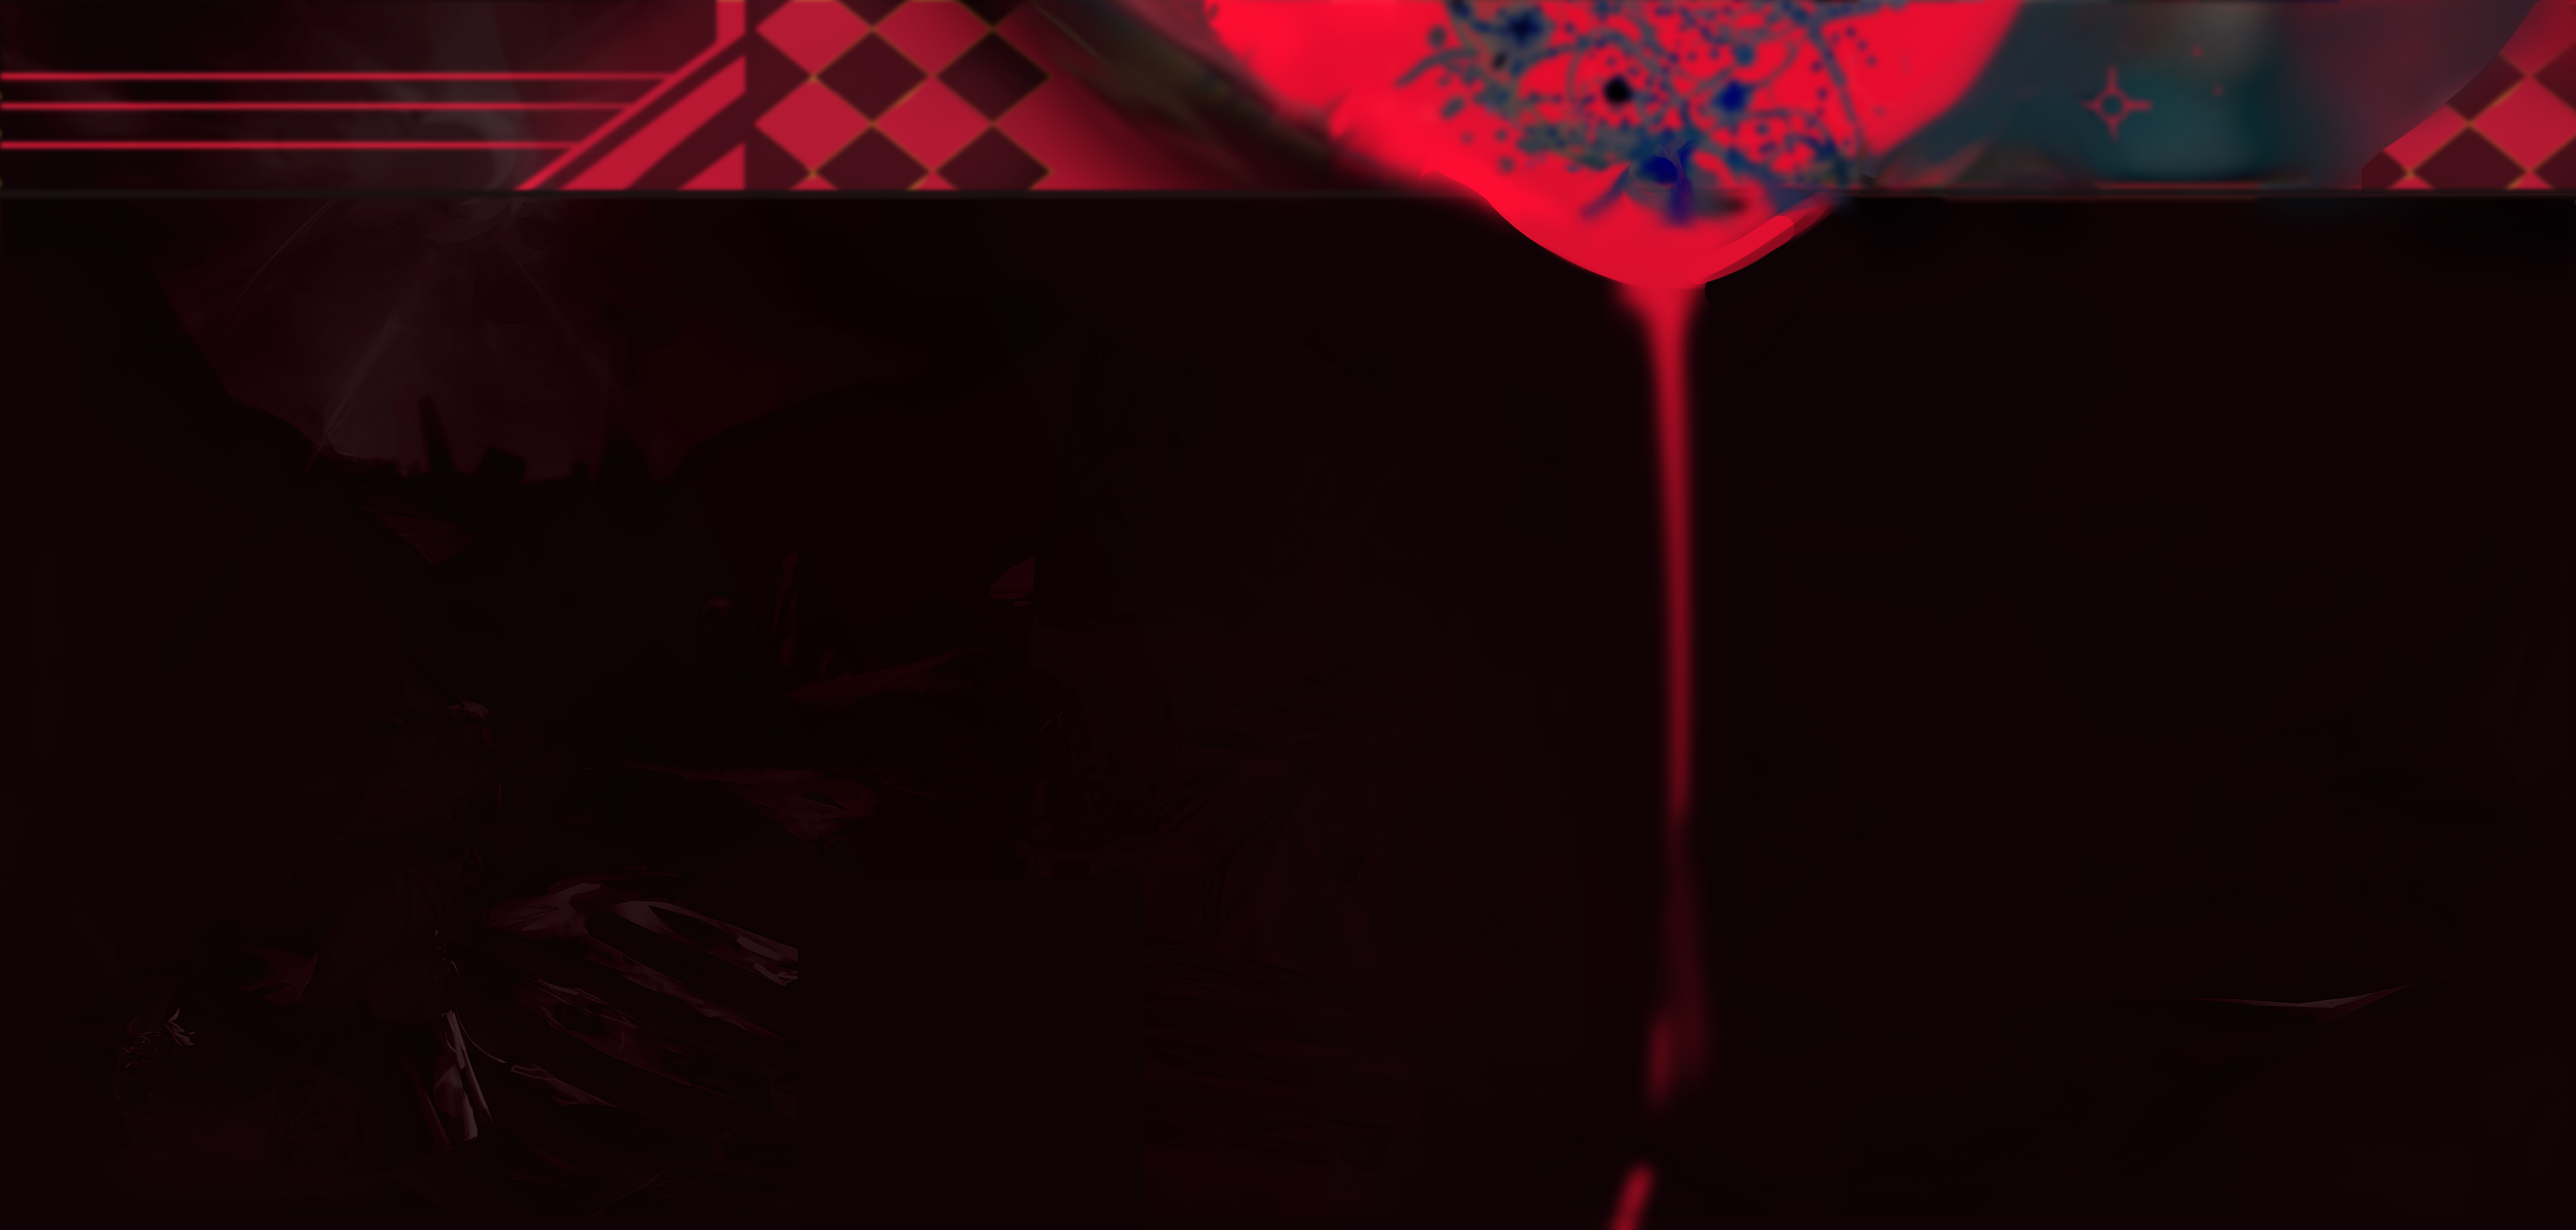
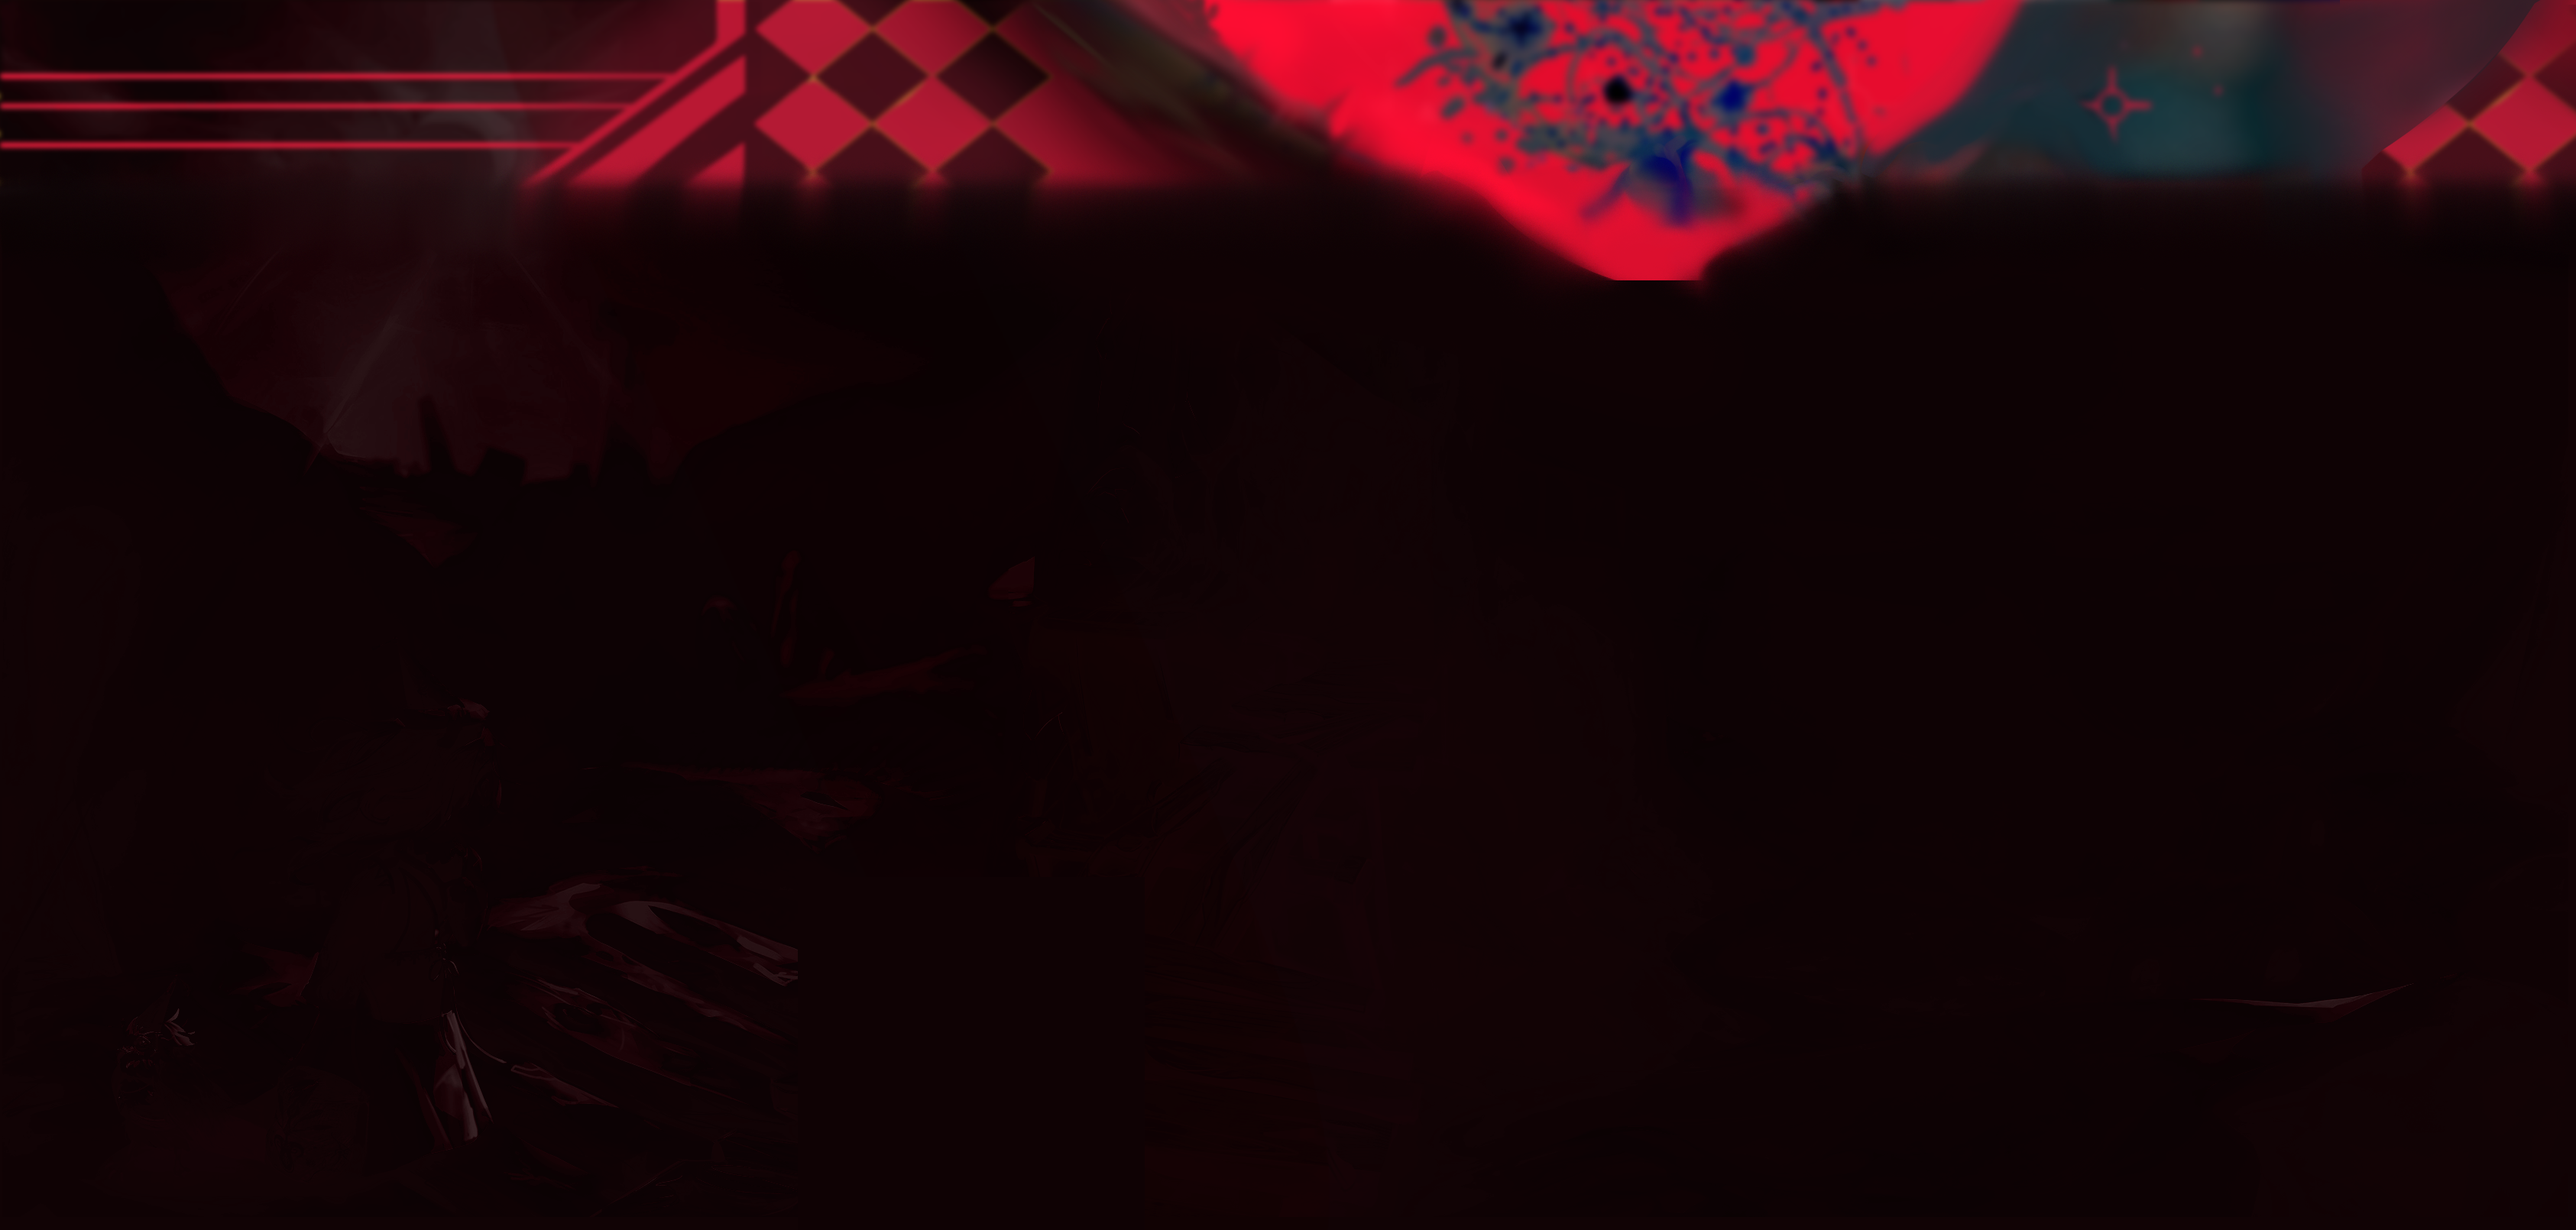
Update 2

diff --git a/index.html b/index.html
@@ -21,7 +21,7 @@
             }
 
             body {
-                background-image: url("/assets/images/bg-color9.png");
+                background-image: url("/assets/images/bg-color9.1.png");
                 background-size: cover;
                 background-position: center;
                 background-repeat: no-repeat;
@@ -83,7 +83,7 @@
             }
 
             .character:hover {
-                transform: translateY(-30px);
+                transform: translateY(-50px);
             }
 
             .character img {
@@ -94,14 +94,41 @@
                 border-radius: 10px;
             }
 
-            .character:hover img {
-                height: 60vh; /* altura quando hover */ }
-                clip-path: polygon(50% 0%, 100% 100%, 0% 100%); 
+            /* Cards Shapes */
+
+            #project-card:hover img {
+
+                height: 60vh;
+                clip-path: polygon(75% -100%, 100% 75%, -25% 100%); /* Triângulo apontando para baixo */
+                
+            }
+
+            #blog-card:hover img {
+                height: 60vh;
+                clip-path: ellipse(50% 100% at 50% 50%);
+
+            }
+
+            #music-card:hover img {
+                height: 60vh;
+                clip-path: polygon(25% 0%, 100% 0%, 75% 100%, 0% 100%);
+
+            }
+
+            #games-card:hover img {
+                height: 60vh;
+                clip-path: polygon(20% 0%, 0% 20%, 30% 50%, 0% 80%, 20% 100%, 50% 70%, 80% 100%, 100% 80%, 70% 50%, 100% 20%, 80% 0%, 50% 30%);
+
+            }
+
+            /* ---- MUDANÇA DA FONTE  */
+
+            /* ---   */
 
             .character-text {
                 margin-top: 1vh;
-                font-size: 1.2vw;
-                font-weight: 300;
+                font-size: 2.2vw;
+                font-weight: 450;
             }
 
             .footer {
@@ -178,7 +205,7 @@
                 ></a>
             </div>
 
-            <p class="welcome-text">W2</p>
+            <p class="welcome-text">Ola2</p>
 
             <div class="characters">
                 <div
@@ -255,9 +282,6 @@
             // CARDS 
             function changeImages(category) {
                 if (category === "projects") {
-
-
-
                     document.getElementById("project-card").querySelector("img").src = "/assets/images/projects_select.jpg";
                     document.getElementById("blog-card").querySelector("img").src = "/assets/images/blog_posterize_brown.jpg";
                     document.getElementById("music-card").querySelector("img").src = "/assets/images/music_posterize_brown.jpg";
@@ -305,7 +329,7 @@
 
             function resetBackground() {
                 if (permanentState) return;
-                document.body.style.backgroundImage = 'url("/assets/images/bg-color9.png")';
+                document.body.style.backgroundImage = 'url("/assets/images/bg-color9.1.png")';
                 document.body.style.backgroundColor = "";
             }
         </script>
